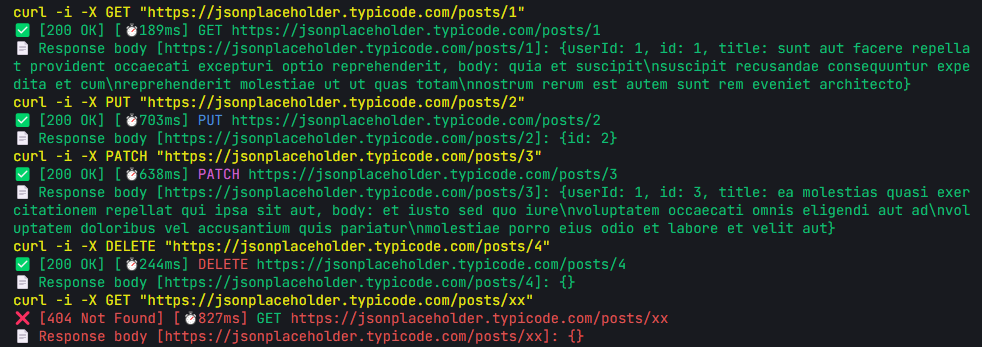
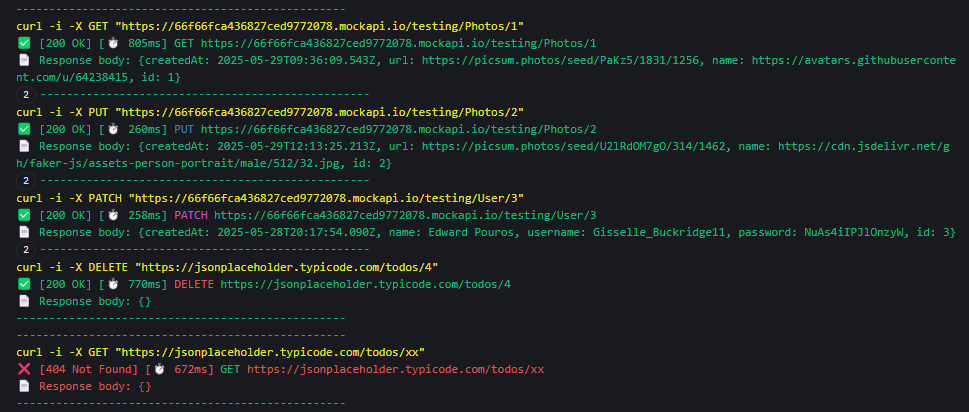
update screenshots

Changed region(s): [[0.0, 0.0, 0.9907, 1.0]]

diff --git a/lib/src/curl_utils.dart b/lib/src/curl_utils.dart
@@ -153,7 +153,7 @@ class CurlUtils {
     //# show some divider to start
     if (curlOptions.behavior == CurlBehavior.simultaneous) {
       ColoredLogger.custom(
-        '----------------------------------------',
+        '-' * 50,
         prefix: prefix,
         ansiCodes: curlOptions.onError?.ansiCodes,
         writer: curlOptions.printer,
@@ -190,7 +190,7 @@ class CurlUtils {
     // //# show some divider to end
     if (curlOptions.behavior == CurlBehavior.simultaneous) {
       ColoredLogger.custom(
-        '----------------------------------------',
+        '-' * 50,
         prefix: prefix,
         ansiCodes: curlOptions.onError?.ansiCodes,
         writer: curlOptions.printer,
@@ -225,7 +225,7 @@ class CurlUtils {
     //# show some divider to start
     if (curlOptions.behavior == CurlBehavior.simultaneous) {
       ColoredLogger.custom(
-        '----------------------------------------',
+        '-' * 50,
         prefix: prefix,
         ansiCodes: curlOptions.onResponse?.ansiCodes,
         writer: curlOptions.printer,
@@ -265,7 +265,7 @@ class CurlUtils {
     //# show some divider to end
     if (curlOptions.behavior == CurlBehavior.simultaneous) {
       ColoredLogger.custom(
-        '----------------------------------------',
+        '-' * 50,
         prefix: prefix,
         ansiCodes: curlOptions.onResponse?.ansiCodes,
         writer: curlOptions.printer,

diff --git a/test/dio_curl_interceptor_test.dart b/test/dio_curl_interceptor_test.dart
@@ -41,15 +41,15 @@ void main() {
         onResponse: ResponseDetails(visible: true, responseBody: true),
         onError: ErrorDetails(visible: true, responseBody: true),
         // Format response body with build-in formatters
-        // formatter: CurlFormatters.escapeNewlinesString,
+        formatter: CurlFormatters.escapeNewlinesString,
       ),
     ));
     try {
-      await dio.get('https://jsonplaceholder.typicode.com/posts/1');
-      await dio.put('https://jsonplaceholder.typicode.com/posts/2');
-      await dio.patch('https://jsonplaceholder.typicode.com/posts/3');
-      await dio.delete('https://jsonplaceholder.typicode.com/posts/4');
-      await dio.get('https://jsonplaceholder.typicode.com/posts/xx');
+      await dio.get('https://66f66fca436827ced9772078.mockapi.io/testing/Photos/1');
+      await dio.put('https://66f66fca436827ced9772078.mockapi.io/testing/Photos/2');
+      await dio.patch('https://66f66fca436827ced9772078.mockapi.io/testing/User/3');
+      await dio.delete('https://jsonplaceholder.typicode.com/todos/4');
+      await dio.get('https://jsonplaceholder.typicode.com/todos/xx');
     } catch (_) {}
   });
   test('test custom dio_curl_interceptor photos', () async {
